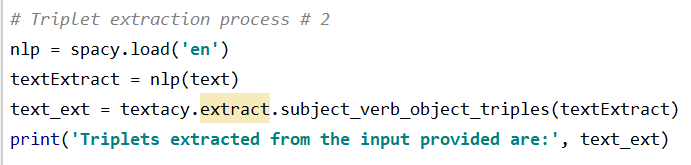
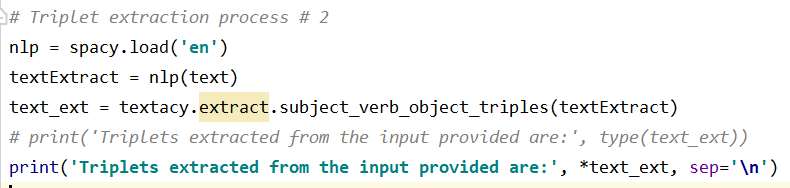
Update output display

Changed region(s): [[0.0, 0.2121, 1.0, 1.0], [0.0, 0.0303, 0.4863, 0.1515]]

diff --git a/ICP_3/TripletExtraction.py b/ICP_3/TripletExtraction.py
@@ -3,22 +3,23 @@ import spacy
 import textacy
 
 # Read input data in the form of text sentence(s)
-text = "Barrack Obama was born in Hawaii"
-# text = "'CHICAGO (AP) —Citing high fuel prices, United Airlines said Friday it has increased fares by $6 per round trip on flights to some cities also served by lower-cost carriers. American Airlines, a unit AMR, immediately matched the move, spokesman Tim Wagner said. United, a unit of UAL, said the increase took effect Thursday night and applies to most routes where it competes against discount carriers, such as Chicago to Dallas and Atlanta and Denver to San Francisco, Los Angeles and New York.'"
+# text = "Barrack Obama was born in Hawaii"
+text = "'CHICAGO (AP) —Citing high fuel prices, United Airlines said Friday it has increased fares by $6 per round trip on flights to some cities also served by lower-cost carriers. American Airlines, a unit AMR, immediately matched the move, spokesman Tim Wagner said. United, a unit of UAL, said the increase took effect Thursday night and applies to most routes where it competes against discount carriers, such as Chicago to Dallas and Atlanta and Denver to San Francisco, Los Angeles and New York.'"
 
-# Triplet extraction process # 1
-nlp = spacy.load('en')
-for sentence in text.split("."):
-    val = nlp(sentence)
-    tuples = textacy.extract.subject_verb_object_triples(val)
-    tuples_list = []
-    if tuples:
-        tuples_to_list = list(tuples)
-        tuples_list.append(tuples_to_list)
-        print(tuples_list)
+# # Triplet extraction process # 1
+# nlp = spacy.load('en')
+# for sentence in text.split("."):
+#     val = nlp(sentence)
+#     tuples = textacy.extract.subject_verb_object_triples(val)
+#     tuples_list = []
+#     if tuples:
+#         tuples_to_list = list(tuples)
+#         tuples_list.append(tuples_to_list)
+#         print(tuples_list)
 
 # Triplet extraction process # 2
 nlp = spacy.load('en')
 textExtract = nlp(text)
 text_ext = textacy.extract.subject_verb_object_triples(textExtract)
-print('Triplets extracted from the input provided are:', text_ext)
+# print('Triplets extracted from the input provided are:', type(text_ext))
+print('Triplets extracted from the input provided are:', *text_ext, sep='\n')
